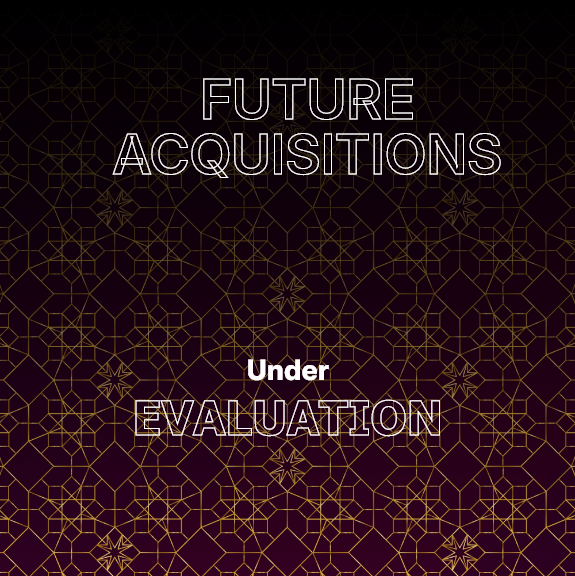
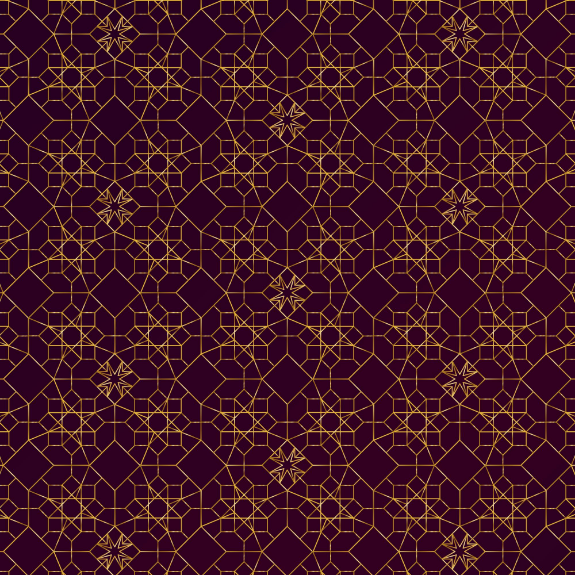
portfolio

diff --git a/assets/css/static.css b/assets/css/static.css
@@ -13,17 +13,21 @@
 
 /*portfolio*/
 .portfolioWrapper{padding: 160px 0 120px;background: #151412;}
-.portfolioTitle{text-align: center;color: var(--yellow);margin-bottom: 80px;}
+.portfolioTitle{text-align: center;color:#D8D8D8;margin-bottom: 80px;}
 .portfolioTitle > h2{font-size: 45px;line-height: 1em;margin: 0;font-family: var(--inter24ptSemiBold);}
-.portfolioGrid{display: grid;grid-template-columns: repeat(3, 1fr);gap: 30px;color: var(--yellow);color: #676767;}
+.portfolioGrid{display: grid;grid-template-columns: repeat(3, 1fr);gap: 40px;color: var(--yellow);color: #676767;}
 .portfolioItemLink{display: block;text-decoration: none;color: inherit;}
-.portfolioItem{border-bottom: 1px solid #676257;cursor: pointer;}
-.portfolioItem > h5{font-size: 35px;line-height: 1.5em;font-family: var(--inter24ptMedium);margin-top: 35px;text-align: center;}
-.portfolioItem > span{font-size: 18px;line-height: 1em;margin: 10px 0 25px;display: block;font-family: var(--inter24ptSemiBold);text-align: center;}
-.portfolioImg{overflow:hidden;position:relative}
-.portfolioImg::before{content:"";position:absolute;inset:0;background:linear-gradient(to bottom,#000f 0%,#0000008a 50%,#0000 100%);z-index:2;pointer-events:none}
-.portfolioImg img{width:100%;height:100%;object-fit:cover;position:relative;z-index:1;transition:transform .6s cubic-bezier(0.25,0.46,0.45,0.94);transform-origin:center;will-change:transform}
-.portfolioItem:hover .portfolioImg img{transform:scale(1.05);}
+.portfolioItem{border-bottom: 1px solid #676257;cursor: pointer;transition: all 0.3s ease;}
+.portfolioItem > h5{font-size: 35px;line-height: 1.5em;font-family: var(--inter24ptMedium);margin-top: 35px;text-align: center;transition: all 0.3s ease;}
+.portfolioItem > span{font-size: 18px;line-height: 1em;margin: 10px 0 25px;display: block;font-family: var(--inter24ptSemiBold);text-align: center;transition: all 0.3s ease;}
+.portfolioImg{overflow:hidden;position:relative;height: 525px;display: flex;justify-content: space-between;align-items: center;flex-direction: column;padding: 80px 0 100px;}
+.portfolioImg::before{content:"";position:absolute;inset:0;z-index:1;background-size:cover;background-position:center;background-repeat:no-repeat;transition:transform 0.6s cubic-bezier(0.25, 0.46, 0.45, 0.94);will-change:transform;}
+.portfolioImg::after{content:"";position:absolute;inset:0;background:linear-gradient(to bottom,#000f 0%,#0000008a 50%,#0000 100%);z-index:2;pointer-events:none}
+.portfolioImg.img1::before{background-image: url(../images/static/Chutney&Co-bg.png);}
+.portfolioImg.img2::before{background-image: url(../images/static/portfolio-PelliniCaffe.png);}
+.portfolioImg.img3::before{background-image: url(../images/static/portfolio-FutureAcquisitions.png);}
+.portfolioImg img{position:relative;z-index:3;}
+.portfolioItem:hover .portfolioImg::before{transform:scale(1.05);}
 .portfolioItem:hover{color: #D8D8D8;border-bottom: 1px solid #CFC4AE;}
 .portfolioFooter{padding-top: 80px;}
 .portfolioFooter > p{font-size: 18px;line-height: 1.4em;font-family: var(--inter24ptRegular);text-align: center;color: #CECECE;}

diff --git a/Portfolio.html b/Portfolio.html
@@ -90,9 +90,9 @@
                 <div class="portfolioGrid">
                     <a href="javascript://" class="portfolioItemLink">
                         <div class="portfolioItem" data-aos="fade-up" data-aos-delay="0">
-                            <div class="portfolioImg">
-                                <img src="assets/images/static/portfolio-Chutney&Co.png" width="575" height="575"
-                                    alt="Chutney & Co" loading="lazy">
+                            <div class="portfolioImg img1">
+                                <img src="assets/images/static/Chutney&Co-img1.png" alt="Chutney & Co" loading="lazy">
+                                <img src="assets/images/static/Chutney&Co-img2.png" alt="Chutney & Co" loading="lazy">
                             </div>
                             <h5>Chutney & Co</h5>
                             <span>Modern Indian Cuisine</span>
@@ -100,9 +100,9 @@
                     </a>
                     <a href="javascript://" class="portfolioItemLink">
                         <div class="portfolioItem" data-aos="fade-up" data-aos-delay="100">
-                            <div class="portfolioImg">
-                                <img src="assets/images/static/portfolio-PelliniCaffe.png" width="575" height="575"
-                                    alt="Pellini Caffè" loading="lazy">
+                            <div class="portfolioImg img2">
+                                <img src="assets/images/static/portfolio-PelliniCaffe-img1.png" alt="Pellini Caffè"
+                                    loading="lazy">
                             </div>
                             <h5>Pellini Caffè</h5>
                             <span>Italian Premium Café (Qatar)</span>
@@ -110,9 +110,11 @@
                     </a>
                     <a href="javascript://" class="portfolioItemLink">
                         <div class="portfolioItem" data-aos="fade-up" data-aos-delay="200">
-                            <div class="portfolioImg">
-                                <img src="assets/images/static/portfolio-FutureAcquisitions.png" width="575"
-                                    height="575" alt="Future acquisitions" loading="lazy">
+                            <div class="portfolioImg img3">
+                                <img src="assets/images/static/portfolio-FutureAcquisitions-img1.png"
+                                    alt="Future acquisitions" loading="lazy">
+                                <img src="assets/images/static/portfolio-FutureAcquisitions-img2.png" alt="Chutney & Co"
+                                    loading="lazy">
                             </div>
                             <h5>Future acquisitions</h5>
                             <span>Under Evaluation</span>
